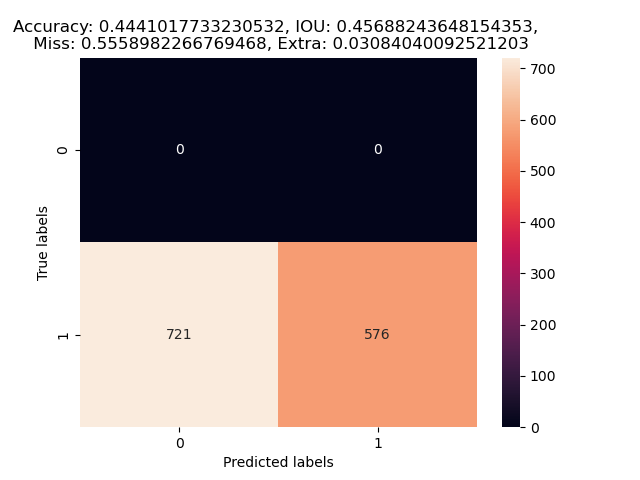
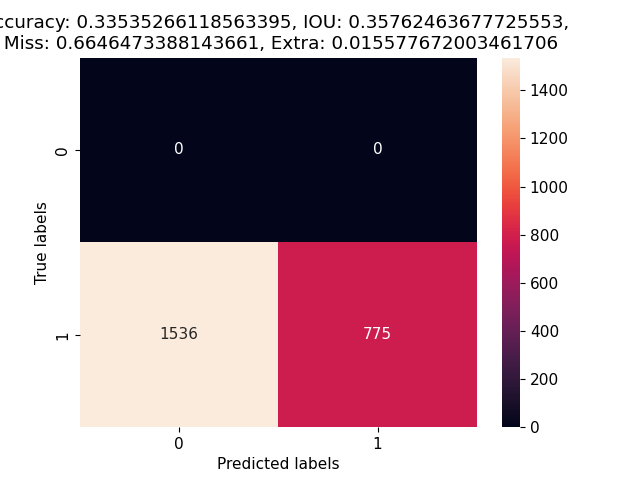
changes to work with yolov5 model

diff --git a/inference.py b/inference.py
@@ -6,6 +6,7 @@ from model import create_model
 from config import NUM_EPOCHS, SAVE_MODEL_EPOCH, NUM_CLASSES, CLASSES, INFER_FALSE_LABELS,DETECTION_THRESHOLD
 import os
 import pandas as pd
+import copy
 
 '''
 NOTE: Relative paths are used in this file. These paths are relative to the root directory. If you intend on running
@@ -19,10 +20,11 @@ def inference():
     # set the computation device
     device = torch.device('cuda') if torch.cuda.is_available() else torch.device('cpu')
     # load the model and the trained weights
-    model = create_model(num_classes=NUM_CLASSES).to(device)
-    model.load_state_dict(torch.load(
-        './outputs/model'+str(NUM_EPOCHS)+'.pth', map_location=device
-    ))
+    
+    #NOTE: AFTER TRAINING BASED ON THIS OFFICIAL YOLO TUTORIAL: https://docs.ultralytics.com/yolov5/tutorials/train_custom_data/#13-organize-directories
+    #Load weights from the path which you stored the model weights
+    model = torch.hub.load('ultralytics/yolov5', 'custom', '../yolov5/runs/train/exp15/weights/best.pt')
+
     model.eval()
 
 
@@ -45,28 +47,56 @@ def inference():
         image_name = test_images[i].split('/')[-1].split('.')[0]
 
         #create new dataframe row
-        validation_results.loc[validation_results.shape[0]] = [None,None,None,None,None,None,None]
+        #validation_results.loc[len(validation_results.index)] = [[],[],[],[],[],[],[]]
+        row_dict = {'file_name': None, 'labels':None, 'centroids':[], 'x1':[], 'x2':[], 'y1':[], 'y2':[]}
+        #validation_results = validation_results.append(row_dict, ignore_index=True)
+        
         #Store current image name
-        validation_results['file_name'][i] = image_name
+        row_dict['file_name'] = image_name
         print("LOADING:", test_images[i])
         image = cv2.imread(test_images[i])
         orig_image = image.copy()
         # BGR to RGB
         image = cv2.cvtColor(orig_image, cv2.COLOR_BGR2RGB).astype(np.float32)
         # make the pixel range between 0 and 1
-        image /= 255.0
+        #image /= 255.0
         # bring color channels to front
-        image = np.transpose(image, (2, 0, 1)).astype(float)
+        #image = np.transpose(image, (2, 0, 1)).astype(float)
         # convert to tensor
-        image = torch.tensor(image, dtype=torch.float).cuda()
+        #image = torch.tensor(image, dtype=torch.float).cuda()
         # add batch dimension
-        image = torch.unsqueeze(image, 0)
+        #image = torch.unsqueeze(image, 0)
         with torch.no_grad():
             outputs = model(image)
+            outputs = outputs.pandas().xyxy[0]
+            print(outputs)
 
+        out_dict = {'boxes': [],
+                    'scores': [],
+                    'labels': []}
+
+        if not outputs.empty:
+            cur_box = []
+            for i in range(outputs.shape[0]):
+                cur_box.append(outputs.iloc[i]['xmin'])
+                cur_box.append(outputs.iloc[i]['ymin'])
+                cur_box.append(outputs.iloc[i]['xmax'])
+                cur_box.append(outputs.iloc[i]['ymax'])
+                #cur_box = np.array(cur_box)
+                out_dict['boxes'].append(cur_box)
+                out_dict['scores'].append(outputs.iloc[i]['confidence'])
+                out_dict['labels'].append(outputs.iloc[i]['class'])
+
+                cur_box = []
+
+            out_dict['scores'] = torch.FloatTensor(out_dict['scores'])
+            out_dict['boxes'] = torch.FloatTensor(out_dict['boxes'])
+            out_dict['labels'] = torch.FloatTensor(out_dict['labels'])
+            
+        outputs = out_dict
         # load all detection to CPU for further operations
-        outputs = [{k: v.to('cpu') for k, v in t.items()} for t in outputs]
-        outputs = outputs[0]
+        #outputs = [{k: v.to('cpu') for k, v in t.items()} for t in outputs]
+        #outputs = outputs[0]
 
         print(outputs)
 
@@ -87,7 +117,7 @@ def inference():
             draw_boxes = boxes.copy()
             # get all the predicited class names
             pred_classes = [CLASSES[i] for i in outputs['labels'].cpu().numpy().astype(int)]
-
+            #pred_classes = outputs['labels']
             # draw the bounding boxes and write the class name on top of it
             for j, box in enumerate(draw_boxes):
                 print(pred_classes[j])
@@ -116,21 +146,25 @@ def inference():
             print(os.path.join(os.getcwd(), str(os.path.basename(OUT_DIR)) , os.path.split(image_name)[1]+'.jpg'))
             print('Save complete: ',cv2.imwrite(os.path.join(os.getcwd(), OUT_DIR.lstrip('./') , os.path.split(image_name)[1]+'.jpg'), orig_image, ))
     
-        validation_results['x1'][i] = x1_list
-        validation_results['y1'][i] = y1_list
-        validation_results['x2'][i] = x2_list
-        validation_results['y2'][i] = y2_list
-        validation_results['centroids'][i] = centroids_list
-        validation_results['labels'][i] = labels_list
+        row_dict['x1'] = x1_list
+        row_dict['y1'] = y1_list
+        row_dict['x2'] = x2_list
+        row_dict['y2'] = y2_list
+        row_dict['centroids'] = centroids_list
+        row_dict['labels'] = labels_list
+
+        validation_results = validation_results.append(row_dict, ignore_index=True)
 
         print(f"Image {i + 1} done...")
         print('-' * 50)
+
 
 
     if not os.path.exists(OUT_DIR):
         os.makedirs(OUT_DIR)
     if not os.path.exists('./validation_results/'):
         os.makedirs('./validation_results/')
+    print(validation_results)
     validation_results.to_csv('./validation_results/validation_results.csv')
     print('TEST PREDICTIONS COMPLETE')
     cv2.destroyAllWindows()

diff --git a/config.py b/config.py
@@ -30,4 +30,4 @@ SAVE_MODEL_EPOCH = 2 # save model after these many epochs
 IMAGE_SPLIT_DIM = 400 # nxn dimension to split larger shape files into, for classification
 INFER_FALSE_LABELS = False
 
-DETECTION_THRESHOLD = 0.8
+DETECTION_THRESHOLD = 0.1
